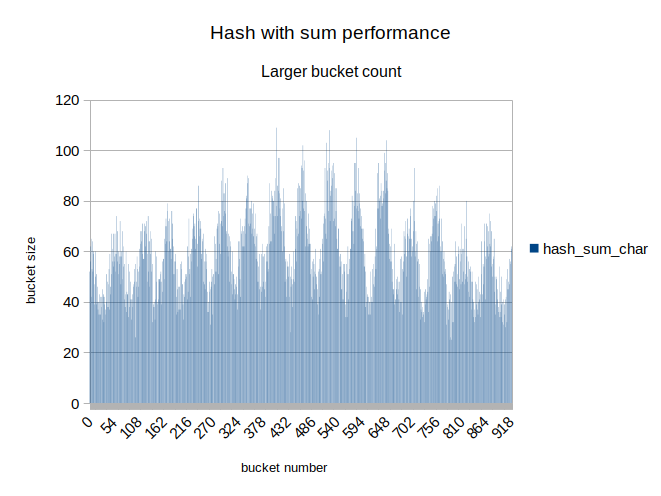
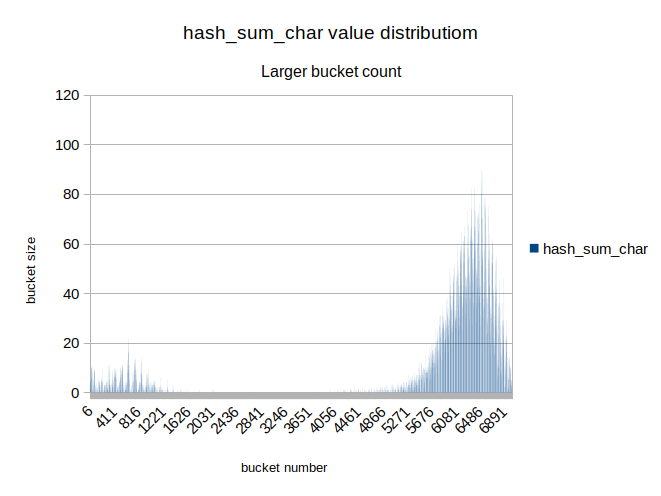
chore: response to review by ded32

diff --git a/src/hash_table/hashes/hash_functions.h b/src/hash_table/hashes/hash_functions.h
@@ -26,6 +26,6 @@ uint64_t hash_ror_xor   (const char* str);
 
 uint64_t hash_rol_xor   (const char* str);
 
-uint64_t hash_custom    (const char* str);
+uint64_t hash_murmur    (const char* str);
 
 #endif /* hash_functions.h */

diff --git a/src/hash_table/hashes/hash_functions.cpp b/src/hash_table/hashes/hash_functions.cpp
@@ -57,7 +57,7 @@ uint64_t hash_rol_xor(const char* str)
     return hash;
 }
 
-uint64_t hash_custom(const char* str)
+uint64_t hash_murmur(const char* str)
 {
     /*
      * MurmurHash64A by Austin Appleby

diff --git a/tests/main.cpp b/tests/main.cpp
@@ -12,7 +12,7 @@ int main()
 {
     HashTable table = {};
 
-    hash_table_ctor(&table, 919);
+    hash_table_ctor(&table, 7019);
 
     fill_hash_table(&table, "assets/war_and_peace.txt.data", -1);
 

diff --git a/research/hash_functions.md b/research/hash_functions.md
@@ -1,8 +1,8 @@
 # Hash function comparison
 
 ## Introduction
-One of the defining aspects of hash table performance is the choice of the
-hash function. A good hash function must not favour one value over another,
+One of the main aspects of hash table performance is the choice of the hash
+function. A good hash function should not favour one value over another,
 producing a uniform distribution of hash values, which ensures faster table
 access times.
 
@@ -12,88 +12,110 @@ the best one.
 ## Materials and methods
 
 ### **Hash table algorithm**
-The tested hash functions were used in a hash table data structure. The
-implemented hash table used closed addressing (open hashing) with
-linked list collision resolution.
+Tested hash functions were used in a hash table data structure. Hash table
+was implemented [here](../src/hash_table/hash_table.cpp) as follows:
+- Hash table used closed addressing (open hashing)
+- Number of buckets in table was a prime number (values 19 and 7019 were chosen)
+- Collisions were resolved using linked lists
 
 ### **Hash functions**
-The following functions were tested (for implementation, see
+The following functions were tested (for implementations, see
 [this file](../src/hash_table/hashes/hash_functions.cpp)):
 
 - `hash_always_one` - Returns 1 for every input
 - `hash_first_char` - Returns the value of the first byte in word
 - `hash_strlen`     - Returns the length (in bytes) of the word
 - `hash_sum_char`   - Returns the sum of bytes representing a word
-- `hash_ror_xor`    - Accumulates the hash by rotating the accumulator
-                      cyclically by one bit to the right and then performing
-                      bitwise `xor` with next byte of a word
-- `hash_rol_xor`    - Accumulates the hash by rotating the accumulator
-                      cyclically by one bit to the left and then performing
-                      bitwise `xor` with next byte of a word
-- `hash_custom`     - Implementation of [MurmurHash by Austin Appleby
+- `hash_ror_xor`    - Accumulates hash using formula:
+                      $\text{hash} = (\text{hash}\space\tt{ror}\space1)
+                                      \space\tt{xor}\space\text{byte}$
+- `hash_rol_xor`    - Accumulates hash using formula:
+                      $\text{hash} = (\text{hash}\space\tt{rol}\space1)
+                                      \space\tt{xor}\space\text{byte}$
+- `hash_murmur`     - Implementation of [MurmurHash by Austin Appleby
   ](https://github.com/aappleby/smhasher/blob/master/src/MurmurHash2.cpp)
 
 ### **Testing method**
-In order to explore the hash values distribution of various hash functions the
-text was loaded from file and each word from it was stored in  a hash table
-using the tested function to determine the word hash. The information about
-bucket sizes in a hash table was dumped into a `.csv` file.
+The testing sequence were as follows:
+1. Words were loaded from a text file
+2. Hash value was calculated for each word using tested function
+3. Words were added to hash table using the calculated hash values
+4. Bucket sizes in hash table were determined
+5. Information about bucket sizes was dumped into a `.csv` file
 
 ### **Loaded data**
-The data stored in hash table was read from a collection of works by 
-Alexander Sergeyevich Pushkin, the famous Russian poet. The first 6 volumes of
-[these 10](https://rvb.ru/pushkin/toc.htm) were taken. Before loading the file,
-it was stripped of any punctuation and converted to lowercase using
-[this Python script](../convert.py).
+The data stored in hash table was read from a famous Russian novel "War and
+Peace" by Lev Tolstoy. Before loading the file, it was stripped of any
+punctuation and converted to lowercase using [this Python script
+](../convert.py).
 
 ## Results
 
 ### **All tested functions**
-When graphing the hash value distribution for all tested functions, the
-following results were obtained:
-
+The information about bucket sizes for all tested functions in hash table
+of size 19 is shown in *Figure 1*.
 | ![All functions](histograms/hash_func_all.png) |
 |:---|
 | *Figure 1. Hash functions summary* |
 
-### **Best performing functions**
-Several functions on the previous histogram have high peaks which do not allow
-us to see the differences between more optimal functions, so we will graph the
-last ones separately:
+### **Functions with smaller buckets**
+The information about bucket sizes produced by selected functions (namely,
+`hash_sum_char`, `hash_ror_xor`, `hash_rol_xor` and `hash_murmur`) is shown in
+*Figure 2*.
 
 | ![Best functions](histograms/hash_func_opt.png) |
 |:---|
-| *Figure 2. Best performing functions summary* |
+| *Figure 2. Selected functions summary* |
 
 ### **Other hashing functions**
-The worst-performing functions were also graphed separately:
+*Figure 3* shows the distributions of values produced by functions
+`hash_always_one`, `hash_first_char` and `hash_strlen`.
 
 | ![Worst functions](histograms/hash_func_worst.png) |
 |:---|
-| *Figure 3. Worst performing functions summary* |
+| *Figure 3. Larger bucket sizes* |
 
+### **Larger hash tables**
 
 The distribution of values for `hash_strlen` function seems puzzling, due to the
-fact that its normal distribution graph seem to be wrapped by `mod 19` operation.
+fact that its normal distribution plot seem to be wrapped by `mod 19` operation.
 Additionally, the Central Limit Theorem predicts that the values produced by
-`hash_sum_char` have to be distributed normally and we must see one or several
-high peaks in its values' distribution, which is apparently not the case.
-Therefore, these functions were tested on a larger bucket count of 919 to better
-see their distributions. The results of these tests are following:
+`hash_sum_char` have to be distributed normally and we expect to see one or
+several high peaks in its values' distribution, which is apparently not the
+case.  Therefore, these functions were tested on a larger bucket count of 7019
+to better see their distributions. The results of these tests are shown in
+*Figure 4* and *Figure 5*.
 
 | ![`hash_strlen` distribution](histograms/hash_strlen_large.png) | ![ `hash_sum_char` distribution](histograms/hash_sum_large.png) |
 |:---|:---|
 | *Figure 4. Full distribution for `hash_strlen`* | *Figure 5. Full distribution for `hash_sum_char`* |
 
+The test with bucket count of 7019 was also performed for functions
+`hash_ror_xor`, `hash_rol_xor` and `hash_murmur`. The results are presented
+in *Figure 6*.
+
+| ![Best](histograms/hash_best_large.png) |
+|:---|
+| *Figure 6. Near-uniform distributions* |
+
+
 ## Discussion
 
 ### **Best hash functions**
-The functions `hash_sum_char`, `hash_ror_xor`, `hash_rol_xor` and `hash_custom`
+The functions `hash_sum_char`, `hash_ror_xor`, `hash_rol_xor` and `hash_murmur`
 performed very similarly on a smaller hash tables. Their distributions are close
-to uniform, which is ideal for the hash function. However, increasing the bucket
-count revealed that `hash_sum_char` suffers (rather predictably) from the
-effects of the Central Limit Theorem, which causes it to favour some of the hash
-values over the others. 
+to uniform, which is ideal for the hash function.
+
+However, increasing the bucket count revealed that `hash_sum_char` suffers
+(rather predictably) from the effects of the Central Limit Theorem, which causes
+it to favour some of the hash values over the others and to leave most buckets
+in a table nearly empty.
+
+On the other hand, the distributions of `hash_ror_xor`, `hash_rol_xor` and
+`hash_murmur` remain near-uniform even when increasing the table size. The
+`hash_murmur` function produces slightly smaller bucket sizes: in test with
+bucket count of 7019 the sizes of buckets produced by `hash_murmur` did not
+exceed 15.
 
 ### **Distribution of `hash_strlen`**
 
@@ -104,7 +126,7 @@ buckets exclusively, while the first one does not have this property. There
 seems to be very few elements in buckets with odd numbers greater than 20.
 
 These properties suggest that the smaller distribution was produced by French
-words in Pushkin's text, which are mostly composed of latin letters.  These
+words in Tolstoy's text, which are mostly composed of latin letters.  These
 letters are represented with a single byte in UTF-8 encoding, therefore the
 length of a word is close to the value returned by `strlen` function. The
 Russian words, on the other hand, are composed of cyrillic letters, represented
